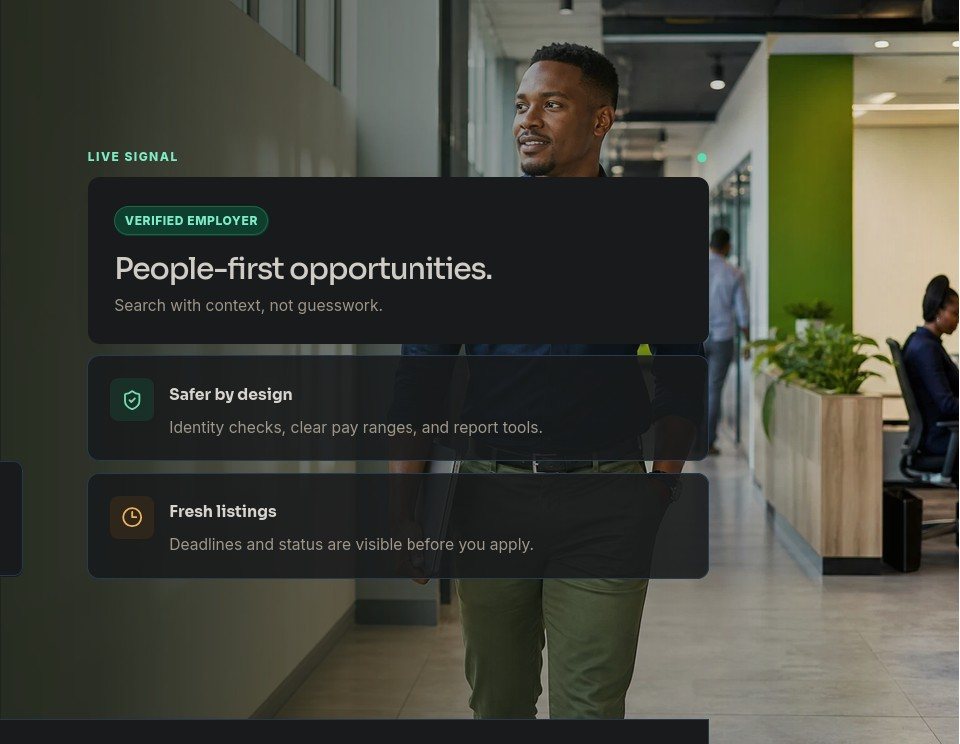
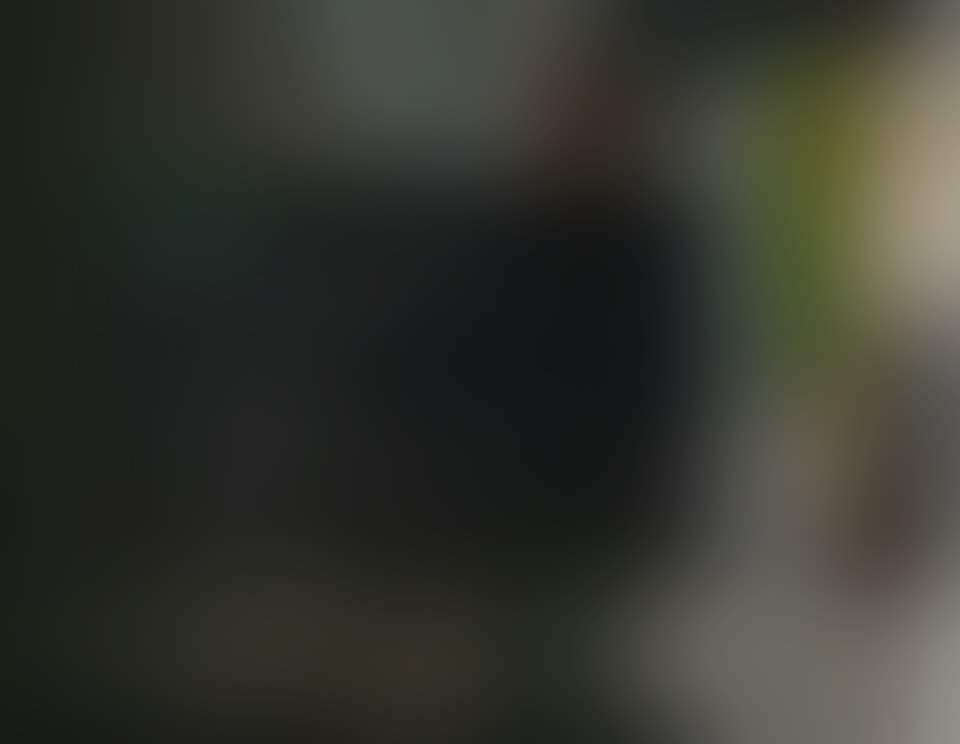
Restore the real photo for homepage hero, but heavily pre-blurred (baked into the image pixels, not CSS filter) so the baked-in card shapes from the source screenshot dissolve into soft ambient light instead of ghosting behind the real cards

diff --git a/client/src/pages/Home.tsx b/client/src/pages/Home.tsx
@@ -33,7 +33,7 @@ const AdminVacancyPaymentAnalyticsPanel = lazy(() => import("@/components/AdminV
 const EmployerVacancyPreview = lazy(() => import("@/components/EmployerVacancyPreview"));
 import { ArrowRight, Bell, Bookmark, BriefcaseBusiness, Building2, CheckCircle2, ChevronDown, ChevronRight, CircleAlert, Clock3, CreditCard, FileText, Globe2, HeartHandshake, LogOut, MapPin, Menu, Search, Settings2, Share2, ShieldCheck, SlidersHorizontal, Sparkles, UserRound, X, Instagram, MessageCircle, Music2, Loader2 } from "lucide-react";
 
-const heroImage = "kazipoa-hero-art";
+const heroImage = "/kazipoa-hero-homepage.jpg";
 const safetyImage = "kazipoa-safety-art";
 const vacancyImages = { finance: storageUrl("kazipoa-vacancy-finance_d524c60a.png"), technology: storageUrl("kazipoa-vacancy-technology_d7d4b5a8.png"), healthcare: storageUrl("kazipoa-vacancy-healthcare_068847f1.png"), hospitality: storageUrl("kazipoa-vacancy-hospitality_3eea05ab.png"), operations: storageUrl("kazipoa-vacancy-operations_ddd08ff5.png"), marketing: storageUrl("kazipoa-vacancy-marketing_945307df.jpg"), legal: storageUrl("kazipoa-vacancy-legal_20ae0b26.jpg"), education: storageUrl("kazipoa-vacancy-education_847476c9.jpg"), agriculture: storageUrl("kazipoa-vacancy-agriculture_1165458e.jpg"), engineering: storageUrl("kazipoa-vacancy-engineering_83529c87.jpg"), business: storageUrl("kazipoa-vacancy-business_6e2eaa5a.jpg"), internship: storageUrl("kazipoa-vacancy-internship_64f77554.jpg") } as const;
 const workplaceImages = { seeker: storageUrl("kazipoa-seeker-workplace-hero_bc5c1182.jpg"), employer: storageUrl("kazipoa-employer-workplace-hero_6341c303.jpg"), admin: storageUrl("kazipoa-admin-workplace-hero_b5170b35.jpg") } as const;
@@ -181,7 +181,7 @@ export default function Home() {
 
     {view === "home" && <>
       <main id="main-content" tabIndex={-1}>
-        <section className="hero"><div className={`hero-image ${heroImage}`} /><div className="hero-scrim" /><div className="container hero-grid"><div className="hero-copy"><div className="hero-kicker"><span className="signal-dot" /> Tanzania’s private-sector work marketplace</div><h1>{text.find}</h1><p>{text.sub}</p><div className="hero-actions"><button className="primary-button" onClick={openMarketplace}>Find a Job <Search size={16}/></button><button className="outline-button hero-secondary-button" onClick={openEmployerWorkspace}>Hire Talent <Building2 size={16}/></button></div>{isRegistered ? <div className="search-panel"><div className="search-field search-field-with-suggestions"><Search size={19}/><input value={query} onChange={e => setQuery(e.target.value)} placeholder={text.search} aria-label={text.search} />{suggestionQuery.data?.length ? <div className="search-suggestions" role="listbox" aria-label="Search suggestions">{suggestionQuery.data.map(suggestion => <button key={`${suggestion.kind}-${suggestion.value}`} type="button" role="option" onMouseDown={e => e.preventDefault()} onClick={() => setQuery(suggestion.value)}><span>{suggestion.kind === "company" ? <Building2 size={14}/> : <BriefcaseBusiness size={14}/>}<strong>{suggestion.value}</strong></span><small>{suggestion.kind === "company" ? "Company" : "Job title"}</small></button>)}</div> : null}</div><select value={location} onChange={e => setLocation(e.target.value)} aria-label="Filter by region">{locations.map(x => <option key={x}>{x}</option>)}</select><button className="primary-button" onClick={() => document.getElementById("vacancies")?.scrollIntoView({ behavior: "smooth" })}>{text.findJobs}<ArrowRight size={17}/></button></div> : <div className="landing-cta"><div><strong>Join Kazipoa to discover verified vacancies.</strong><span>Register once, complete your professional profile, and see opportunities matched to your next move.</span></div><button className="primary-button" onClick={() => setShowRegister(true)}>Create a free profile <ArrowRight size={17}/></button></div>}<div className="hero-stats"><button className="metric-card" onClick={() => openMetric("vacancies")}><strong>{metricsQuery.isLoading ? "—" : (metricsQuery.data?.vacancies ?? 0).toLocaleString()}</strong><span>{text.jobs}<ArrowRight size={13}/></span></button><button className="metric-card" onClick={() => openMetric("companies")}><strong>{metricsQuery.isLoading ? "—" : (metricsQuery.data?.companies ?? 0).toLocaleString()}</strong><span>{text.companies}<ArrowRight size={13}/></span></button><button className="metric-card" onClick={() => openMetric("applications")}><strong>{metricsQuery.isLoading ? "—" : (metricsQuery.data?.seekers ?? 0).toLocaleString()}</strong><span>{text.seekers}<ArrowRight size={13}/></span></button></div></div><aside className="hero-rail"><div className="rail-top"><span>LIVE SIGNAL</span><span className="pulse">●</span></div><div className="rail-card featured"><Chip tone="green">VERIFIED EMPLOYER</Chip><h3>People-first opportunities.</h3><p>Search with context, not guesswork.</p></div><div className="rail-card"><div className="rail-icon"><ShieldCheck size={18}/></div><div><strong>Safer by design</strong><p>Identity checks, clear pay ranges, and report tools.</p></div></div><div className="rail-card"><div className="rail-icon amber"><Clock3 size={18}/></div><div><strong>Fresh listings</strong><p>Deadlines and status are visible before you apply.</p></div></div></aside></div></section>
+        <section className="hero"><div className="hero-image" style={{ backgroundImage: `url(${heroImage})` }} /><div className="hero-scrim" /><div className="container hero-grid"><div className="hero-copy"><div className="hero-kicker"><span className="signal-dot" /> Tanzania’s private-sector work marketplace</div><h1>{text.find}</h1><p>{text.sub}</p><div className="hero-actions"><button className="primary-button" onClick={openMarketplace}>Find a Job <Search size={16}/></button><button className="outline-button hero-secondary-button" onClick={openEmployerWorkspace}>Hire Talent <Building2 size={16}/></button></div>{isRegistered ? <div className="search-panel"><div className="search-field search-field-with-suggestions"><Search size={19}/><input value={query} onChange={e => setQuery(e.target.value)} placeholder={text.search} aria-label={text.search} />{suggestionQuery.data?.length ? <div className="search-suggestions" role="listbox" aria-label="Search suggestions">{suggestionQuery.data.map(suggestion => <button key={`${suggestion.kind}-${suggestion.value}`} type="button" role="option" onMouseDown={e => e.preventDefault()} onClick={() => setQuery(suggestion.value)}><span>{suggestion.kind === "company" ? <Building2 size={14}/> : <BriefcaseBusiness size={14}/>}<strong>{suggestion.value}</strong></span><small>{suggestion.kind === "company" ? "Company" : "Job title"}</small></button>)}</div> : null}</div><select value={location} onChange={e => setLocation(e.target.value)} aria-label="Filter by region">{locations.map(x => <option key={x}>{x}</option>)}</select><button className="primary-button" onClick={() => document.getElementById("vacancies")?.scrollIntoView({ behavior: "smooth" })}>{text.findJobs}<ArrowRight size={17}/></button></div> : <div className="landing-cta"><div><strong>Join Kazipoa to discover verified vacancies.</strong><span>Register once, complete your professional profile, and see opportunities matched to your next move.</span></div><button className="primary-button" onClick={() => setShowRegister(true)}>Create a free profile <ArrowRight size={17}/></button></div>}<div className="hero-stats"><button className="metric-card" onClick={() => openMetric("vacancies")}><strong>{metricsQuery.isLoading ? "—" : (metricsQuery.data?.vacancies ?? 0).toLocaleString()}</strong><span>{text.jobs}<ArrowRight size={13}/></span></button><button className="metric-card" onClick={() => openMetric("companies")}><strong>{metricsQuery.isLoading ? "—" : (metricsQuery.data?.companies ?? 0).toLocaleString()}</strong><span>{text.companies}<ArrowRight size={13}/></span></button><button className="metric-card" onClick={() => openMetric("applications")}><strong>{metricsQuery.isLoading ? "—" : (metricsQuery.data?.seekers ?? 0).toLocaleString()}</strong><span>{text.seekers}<ArrowRight size={13}/></span></button></div></div><aside className="hero-rail"><div className="rail-top"><span>LIVE SIGNAL</span><span className="pulse">●</span></div><div className="rail-card featured"><Chip tone="green">VERIFIED EMPLOYER</Chip><h3>People-first opportunities.</h3><p>Search with context, not guesswork.</p></div><div className="rail-card"><div className="rail-icon"><ShieldCheck size={18}/></div><div><strong>Safer by design</strong><p>Identity checks, clear pay ranges, and report tools.</p></div></div><div className="rail-card"><div className="rail-icon amber"><Clock3 size={18}/></div><div><strong>Fresh listings</strong><p>Deadlines and status are visible before you apply.</p></div></div></aside></div></section>
 
         {!isRegistered && <section className="section public-search-section"><div className="container public-search-panel"><div><p className="eyebrow">FIND YOUR NEXT OPPORTUNITY</p><h2>Search jobs by title, skill or keyword.</h2><p>Search live Kazipoa opportunities. Create an account when you are ready to view details and apply.</p></div><div className="search-panel"><div className="search-field"><Search size={19}/><input value={query} onChange={e => setQuery(e.target.value)} placeholder="Search jobs by title, skill or keyword" aria-label="Search jobs by title, skill or keyword" /></div><select value={location === "All Tanzania" ? "All regions" : location} onChange={e => setLocation(e.target.value)} aria-label="Location"><option>All regions</option>{locations.filter(x => x !== "All Tanzania").map(x => <option key={x}>{x}</option>)}</select><select value={category} onChange={e => setCategory(e.target.value)} aria-label="All categories"><option>All categories</option>{categories.map(x => <option key={x}>{x}</option>)}</select><button className="primary-button" onClick={openMarketplace}>Search Jobs <ArrowRight size={17}/></button></div></div></section>}
 
